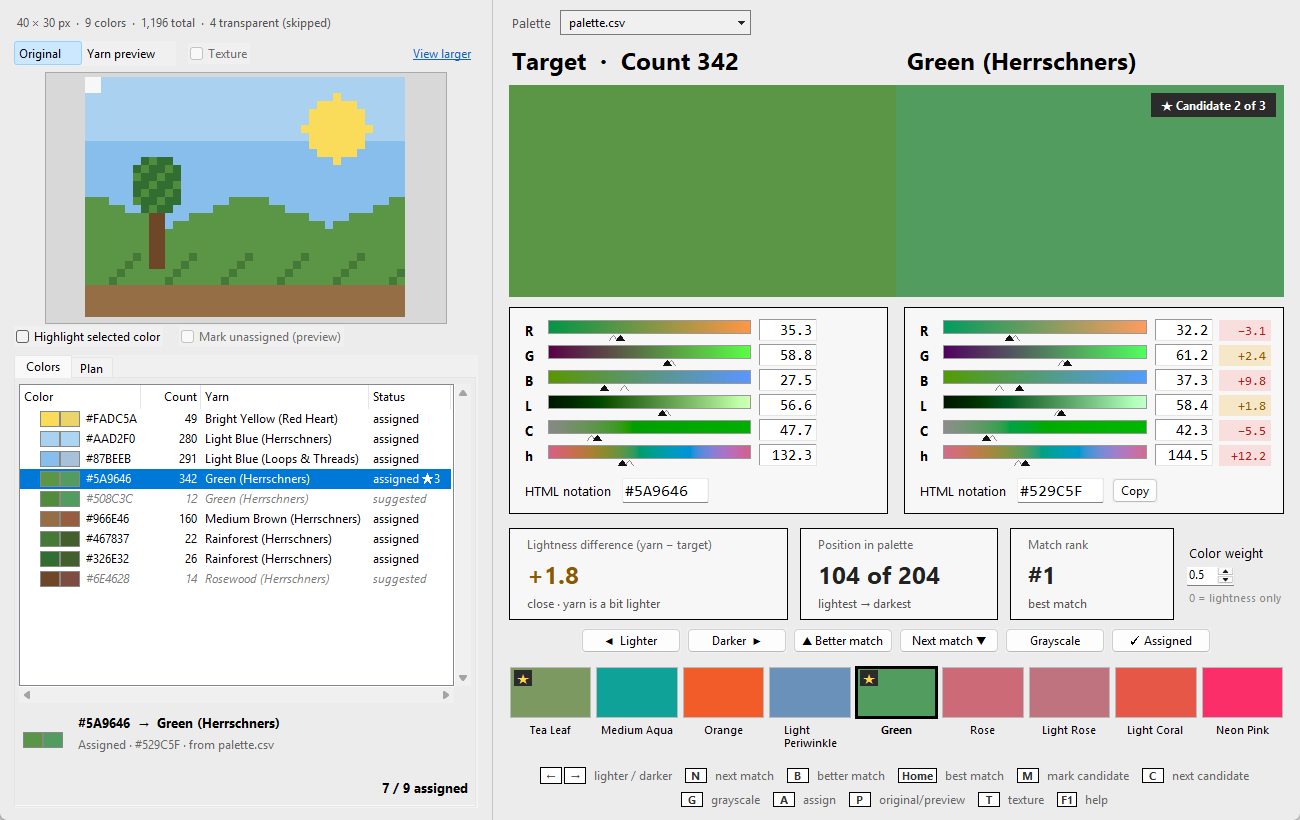
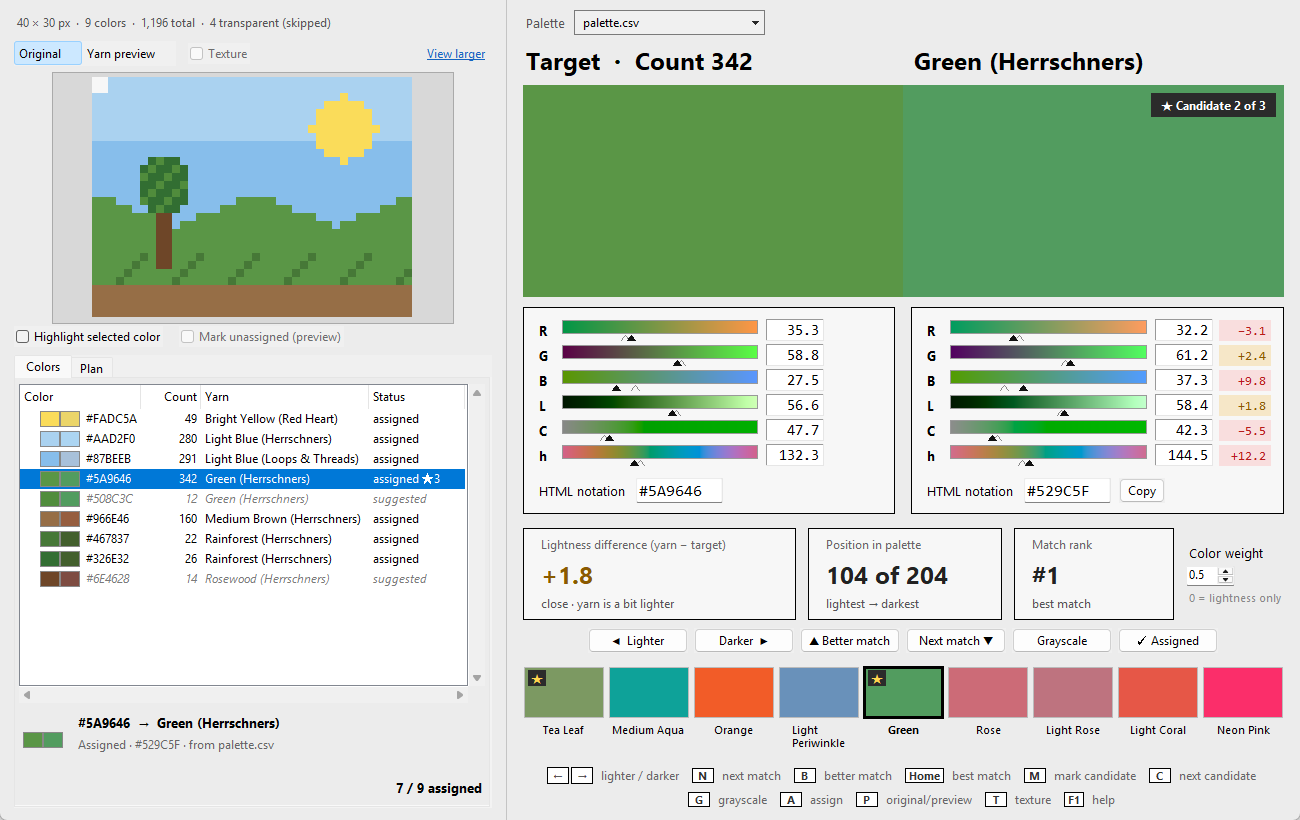
Colors table: Status always has room for its longest text
Marking the first candidate (the star) or carrying a color over widened
the Status column, which widened the sidebar and shoved the right side
over. The column now always leaves room for 'carried over ★9'.

diff --git a/src/latchwork/project_panel.py b/src/latchwork/project_panel.py
@@ -359,8 +359,11 @@ class ProjectPanel(tk.Frame):
     def size_columns(self):
         """Color, Count and status fit their contents; Yarn takes the rest (scrolls if long)."""
         t = self.tree
+        # Status always has room for its longest text, so marking a candidate (the star)
+        # or carrying a color over never resizes the table.
         _fit_columns(t, {"#0": (64, None), "count": (14, None),
-                         "yarn": (16, self._italic), "state": (14, self._italic)})
+                         "yarn": (16, self._italic),
+                         "state": (14, self._italic, ["carried over \u26059"])})
         # Yarn takes exactly the leftover width (no stretch), so the total never overshoots
         # the visible area by a few pixels and the horizontal scrollbar only moves when a
         # name really doesn't fit.
@@ -945,14 +948,16 @@ TREE_BORDER = 4   # px the Treeview's frame takes from its width
 
 
 def _fit_columns(tree, spec):
-    """Size columns to their widest cell or heading. spec: {col: (padding px, font or None)};
-    the tree column (#0) padding should include the indent and row image."""
+    """Size columns to their widest cell or heading. spec: {col: (padding px, font or None[,
+    texts to always leave room for])}; the tree column (#0) padding should include the indent
+    and row image."""
     base = tkfont.nametofont("TkDefaultFont")
     head = tkfont.nametofont("TkHeadingFont")
     items = tree.get_children()
-    for col, (pad, font) in spec.items():
+    for col, (pad, font, *room) in spec.items():
         f = font or base
         texts = [tree.item(i, "text") if col == "#0" else str(tree.set(i, col)) for i in items]
+        texts += room[0] if room else []
         widest = max([f.measure(t) + pad for t in texts] +
                      [head.measure(tree.heading(col, "text").rstrip(" \u25b2\u25bc") + " \u25bc") + 14])
         tree.column(col, width=widest, minwidth=widest)
